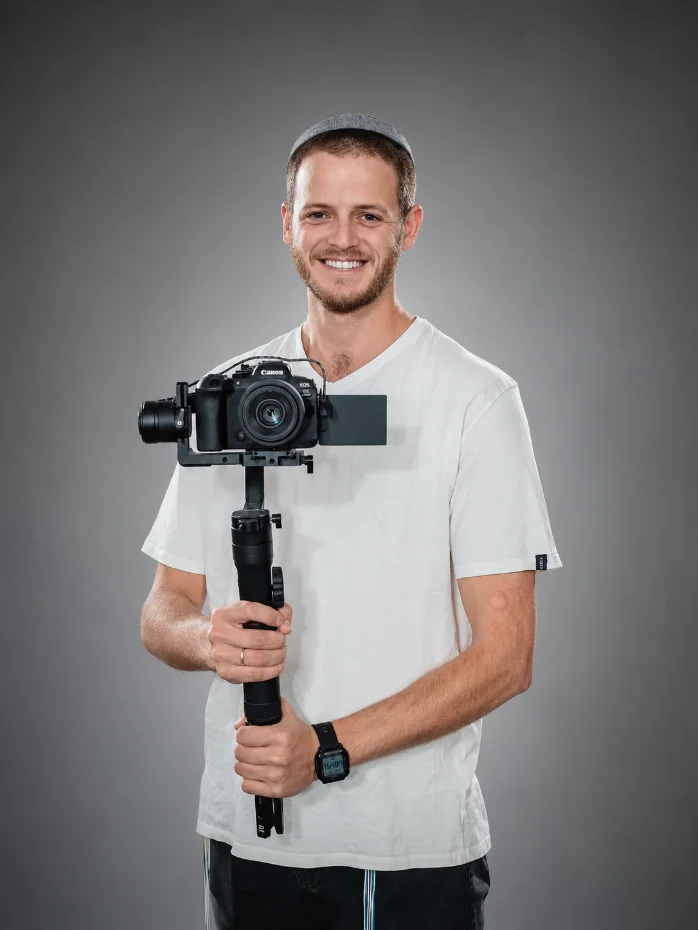
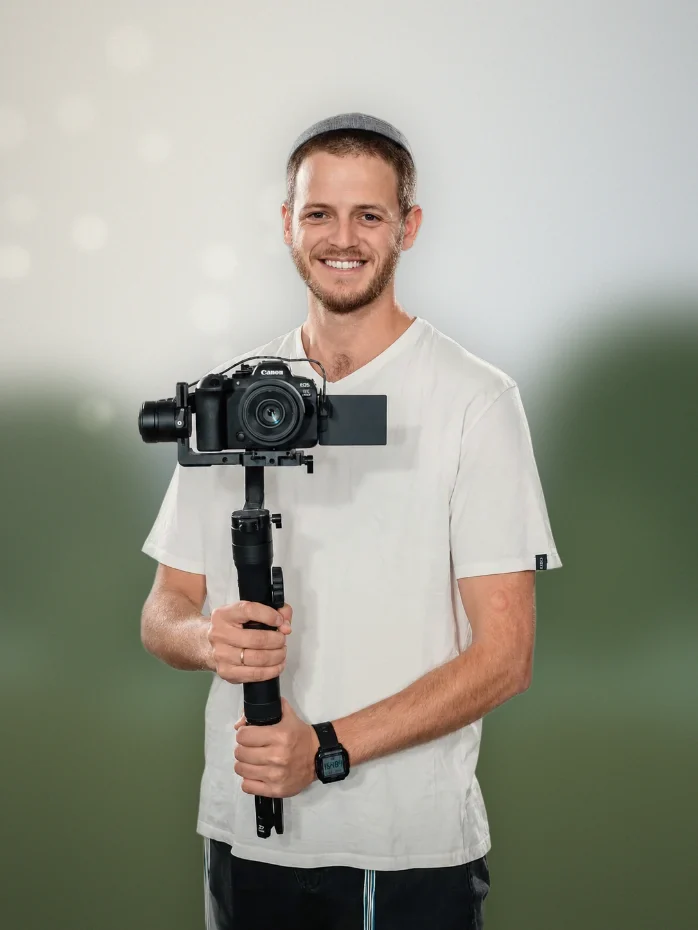
Blurred landscape background for about photo; trim availability subtitle
Claude-Session: https://claude.ai/code/session_01NnhSNVT9ftutwfkoSjXea7

diff --git a/public/index.html b/public/index.html
@@ -127,7 +127,7 @@
       <div class="wrap">
         <p class="eyebrow">בדיקת זמינות</p>
         <h2 class="h2">פנוי בתאריך שלכם?</h2>
-        <p class="sub">בחרו תאריך וגלו מיד אם הוא פנוי. בלי לחשוף את כל היומן.</p>
+        <p class="sub">בחרו תאריך וגלו מיד אם הוא פנוי.</p>
         <div class="avail-box">
           <form class="avail-row" id="avail-form">
             <label for="avail-date" class="visually-hidden">תאריך האירוע</label>
